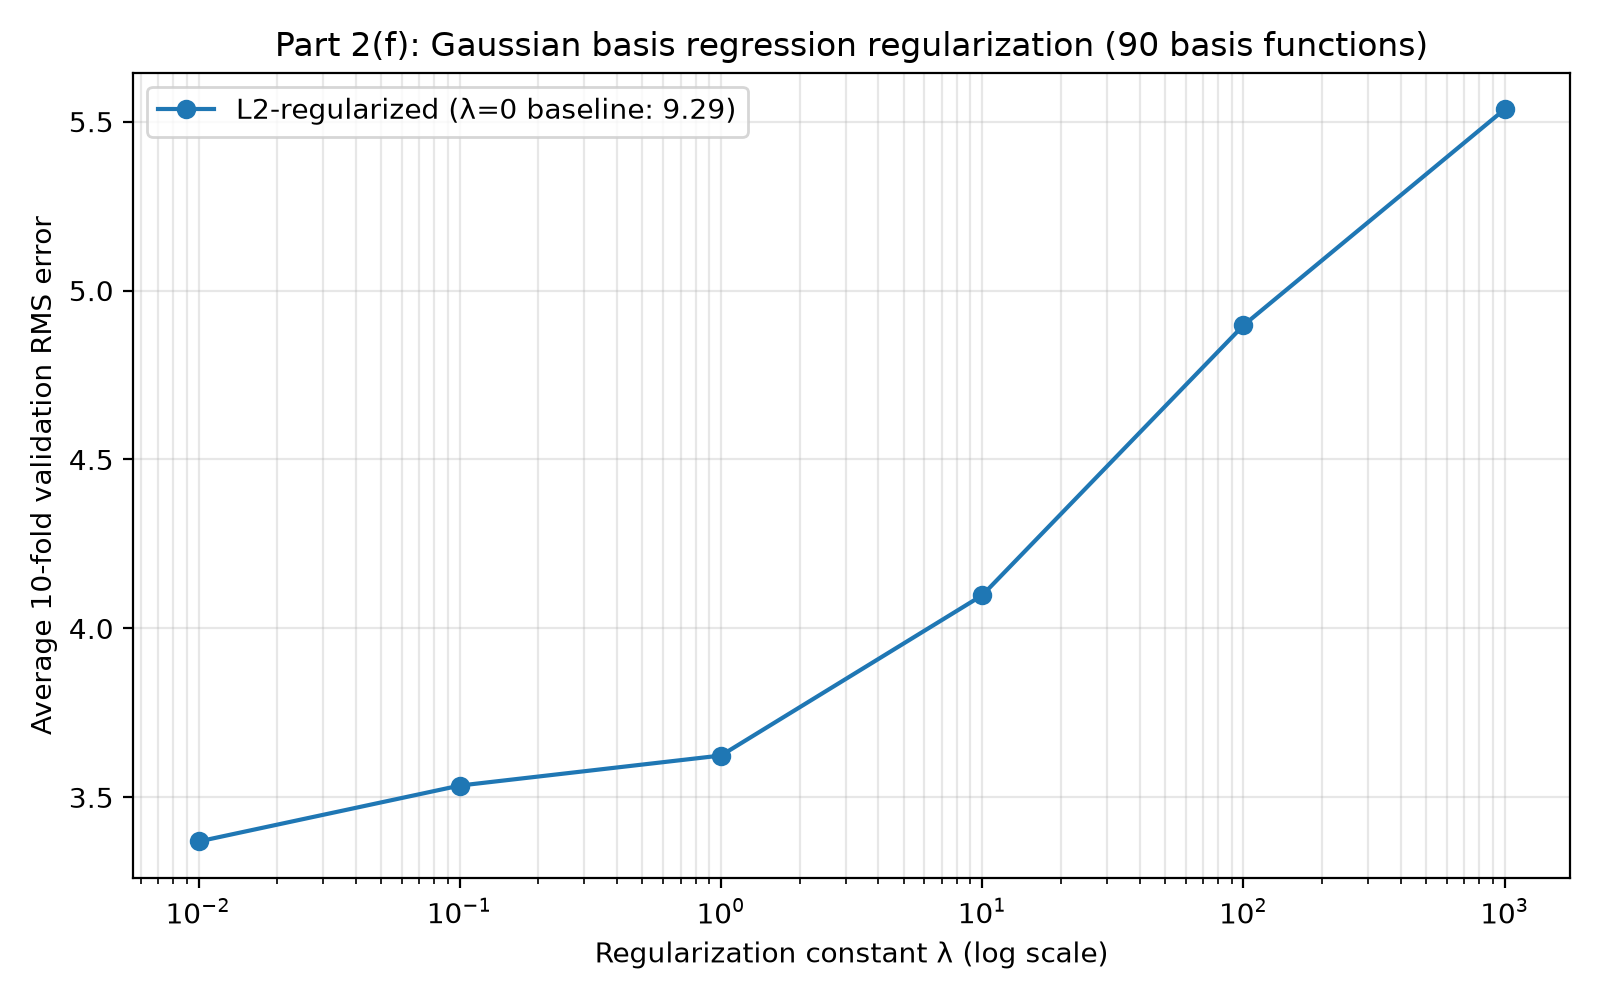
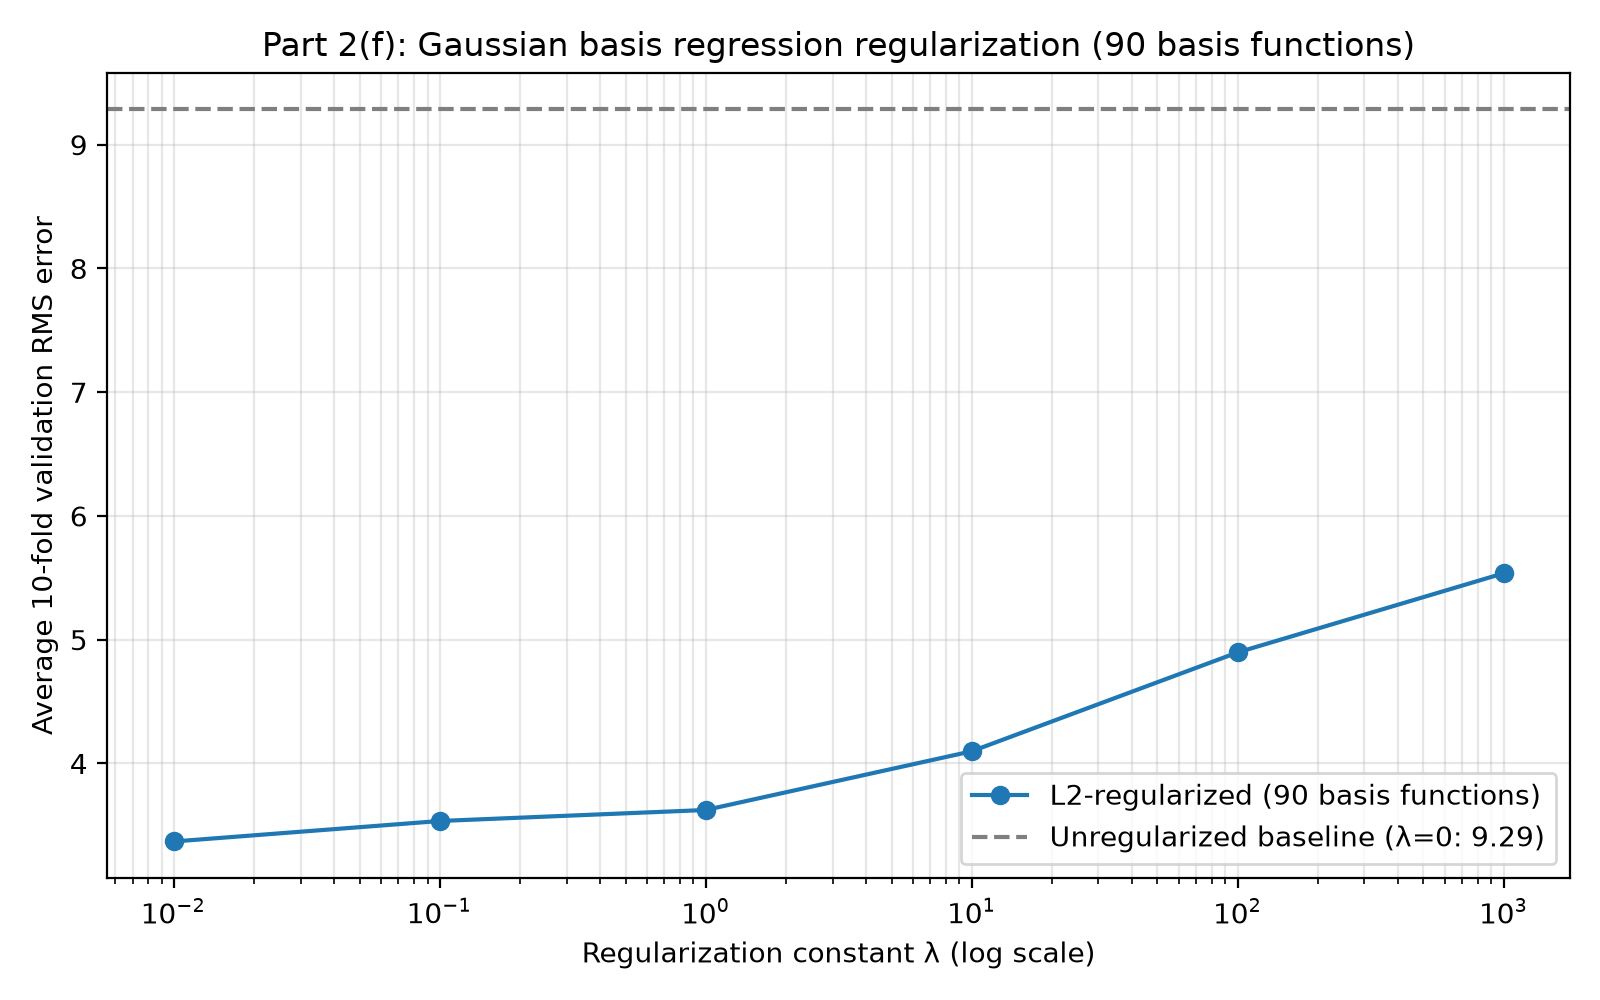
final update

diff --git a/2/part2.py b/2/part2.py
@@ -123,7 +123,13 @@ def plot_part_f(validation_errors, lambda_values=LAMBDA_VALUES):
         lambda_values[positive],
         validation_errors[positive],
         "o-",
-        label=f"L2-regularized (λ=0 baseline: {validation_errors[0]:.2f})",
+        label="L2-regularized (90 basis functions)",
+    )
+    plt.axhline(
+        validation_errors[0],
+        color="tab:gray",
+        linestyle="--",
+        label=f"Unregularized baseline (λ=0: {validation_errors[0]:.2f})",
     )
     plt.xlabel("Regularization constant λ (log scale)")
     plt.ylabel("Average 10-fold validation RMS error")
@@ -147,30 +153,35 @@ def gaussian_regression_reg(x_train, y_train, num_basis=90, lambda_values=None, 
     rng = np.random.default_rng(seed)
     fold_indices = np.array_split(np.arange(len(y_train)), folds)
 
+    # Precompute fold design matrices and partitions once so all lambda values
+    # are evaluated on the exact same basis functions
+    fold_partitions = []
+    for validation_indices in fold_indices:
+        training_mask = np.ones(len(y_train), dtype=bool)
+        training_mask[validation_indices] = False
+        fold_x_train, fold_y_train = x_train[training_mask], y_train[training_mask]
+        fold_x_val, fold_y_val = x_train[validation_indices], y_train[validation_indices]
+
+        # Fit scaling on this fold's training partition only
+        mean, std = fit_standardizer(fold_x_train)
+        fold_x_train_std = standardize(fold_x_train, mean, std)
+        fold_x_val_std = standardize(fold_x_val, mean, std)
+
+        # Centers: choose 90 centers from the fold's 90 training points
+        fold_perm = rng.permutation(len(fold_x_train_std))
+        centers = fold_x_train_std[fold_perm[:num_basis]]
+
+        phi_train = gaussian_design_matrix(fold_x_train_std, centers, scale=scale)
+        phi_val = gaussian_design_matrix(fold_x_val_std, centers, scale=scale)
+
+        fold_partitions.append((phi_train, fold_y_train, phi_val, fold_y_val))
+
     average_errors = []
     for regularization in lambda_values:
         fold_errors = []
-        for validation_indices in fold_indices:
-            training_mask = np.ones(len(y_train), dtype=bool)
-            training_mask[validation_indices] = False
-            fold_x_train, fold_y_train = x_train[training_mask], y_train[training_mask]
-            fold_x_val, fold_y_val = x_train[validation_indices], y_train[validation_indices]
-
-            # Fit scaling on this fold's training partition only
-            mean, std = fit_standardizer(fold_x_train)
-            fold_x_train_std = standardize(fold_x_train, mean, std)
-            fold_x_val_std = standardize(fold_x_val, mean, std)
-
-            # Centers: choose 90 centers from the fold's 90 training points
-            fold_perm = rng.permutation(len(fold_x_train_std))
-            centers = fold_x_train_std[fold_perm[:num_basis]]
-
-            phi_train = gaussian_design_matrix(fold_x_train_std, centers, scale=scale)
-            phi_val = gaussian_design_matrix(fold_x_val_std, centers, scale=scale)
-
+        for phi_train, fold_y_train, phi_val, fold_y_val in fold_partitions:
             weights = fit_linear_regression(phi_train, fold_y_train, regularization)
             fold_errors.append(rms_error(phi_val @ weights, fold_y_val))
-
         average_errors.append(np.mean(fold_errors))
 
     validation_errors = np.array(average_errors)

diff --git a/2/part1.py b/2/part1.py
@@ -249,16 +249,16 @@ def main():
     print("-" * 52)
     print(f"{'w0':>8} | {'Bias':>10} | {std_weights[0]:>12.6f} | {unstd_weights[0]:>14.6f}")
     for idx, name in enumerate(FEATURE_NAMES):
-        w_label = f"w{idx+1} (x{idx})"
+        w_label = f"w{idx+1}"
         print(f"{w_label:>8} | {name:>10} | {std_weights[idx+1]:>12.6f} | {unstd_weights[idx+1]:>14.6f}")
 
     print("\nSpecific Assignment Questions:")
-    print(f"  - Weight for 6th feature RM (w5 in 0-based feature index / w6 with bias):")
+    print("  - 6th feature RM (w6, including bias w0; prompt: w5):")
     print(f"      Standardized:   {std_weights[6]:.6f}")
-    print(f"      Unstandardized: {unstd_weights[6]:.6f} ($/room)")
-    print(f"  - Weight for 8th feature DIS (w7 in 0-based feature index / w8 with bias):")
+    print(f"      Unstandardized: {unstd_weights[6]:.6f} ($1000s per room, ~$8,591)")
+    print("  - 8th feature DIS (w8, including bias w0; prompt: 8th feature):")
     print(f"      Standardized:   {std_weights[8]:.6f}")
-    print(f"      Unstandardized: {unstd_weights[8]:.6f} ($/unit distance)")
+    print(f"      Unstandardized: {unstd_weights[8]:.6f} ($1000s per distance unit, ~$7.63)")
 
     print("\n=====================================================================")
     print("Part 1(c): One-Dimensional Fits Using Feature 2 (ZN)")
